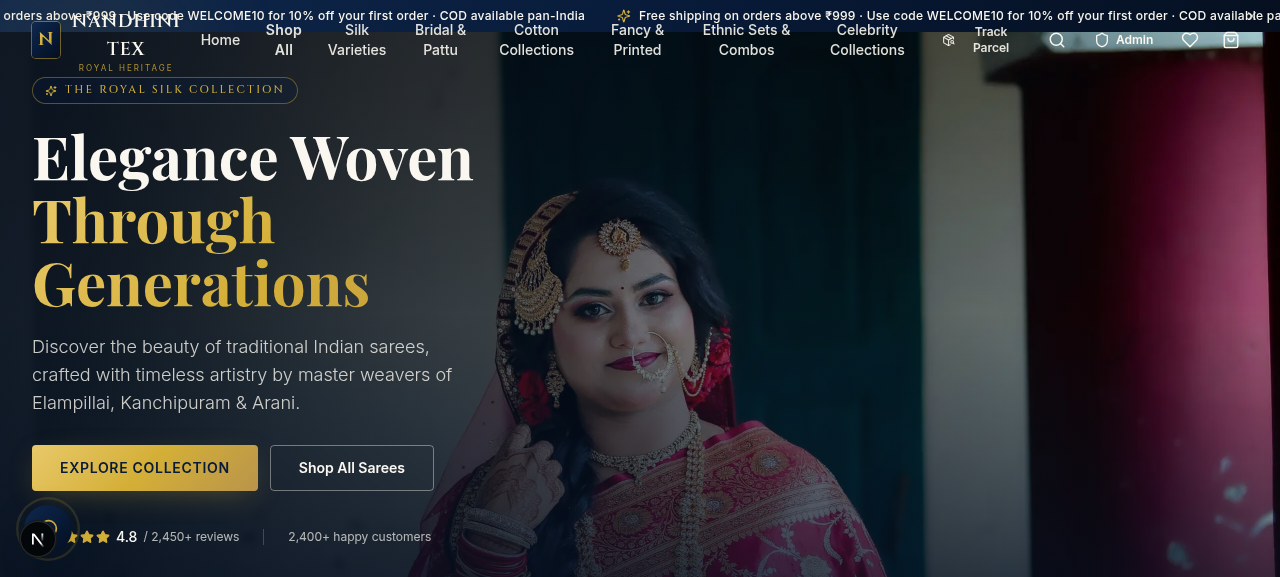
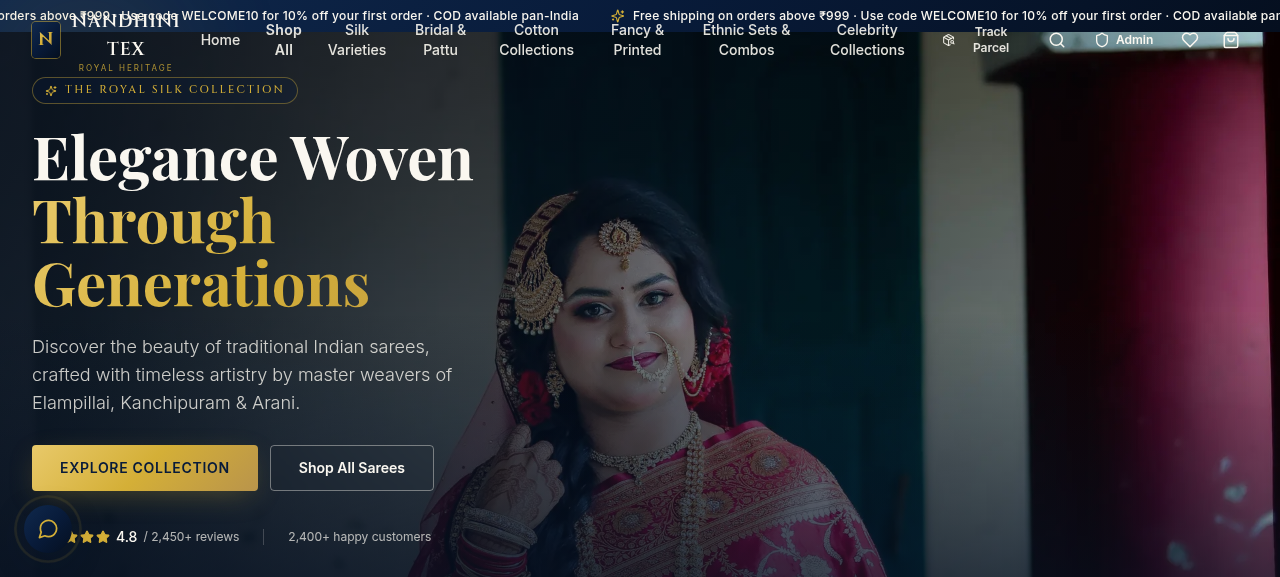
c47780fd-e7c7-4a18-b825-8f8a4bd4a649

Changed region(s): [[0.0, 0.0, 1.0, 0.0624], [0.0, 0.9047, 0.0625, 0.9671]]

diff --git a/src/lib/integrations/resend.ts b/src/lib/integrations/resend.ts
@@ -105,7 +105,7 @@ export type OrderConfirmationEmail = {
   codSurcharge: number;
   grandTotal: number;
   paymentMethod: string;
-  shippingAddress: { name: string; line1: string; city: string; state: string; pincode: string };
+  shippingAddress: { name?: string; line1: string; city: string; state: string; pincode: string; phone?: string };
   estimatedDelivery: string;
 };
 
@@ -157,7 +157,7 @@ export function renderOrderConfirmationEmail(d: OrderConfirmationEmail): string 
       <div style="background:#FAF7F0;border-radius:8px;padding:16px;margin-top:24px;">
         <p style="margin:0 0 4px;font-weight:600;color:#081B3A;font-size:13px;">Shipping to:</p>
         <p style="margin:0;color:#8B7E74;font-size:13px;line-height:1.5;">
-          ${d.shippingAddress.name}<br>${d.shippingAddress.line1}<br>${d.shippingAddress.city}, ${d.shippingAddress.state} ${d.shippingAddress.pincode}
+          ${d.shippingAddress.name || d.customerName}<br>${d.shippingAddress.line1}<br>${d.shippingAddress.city}, ${d.shippingAddress.state} ${d.shippingAddress.pincode}
         </p>
       </div>
       <p style="color:#8B7E74;font-size:12px;line-height:1.6;margin-top:24px;">
